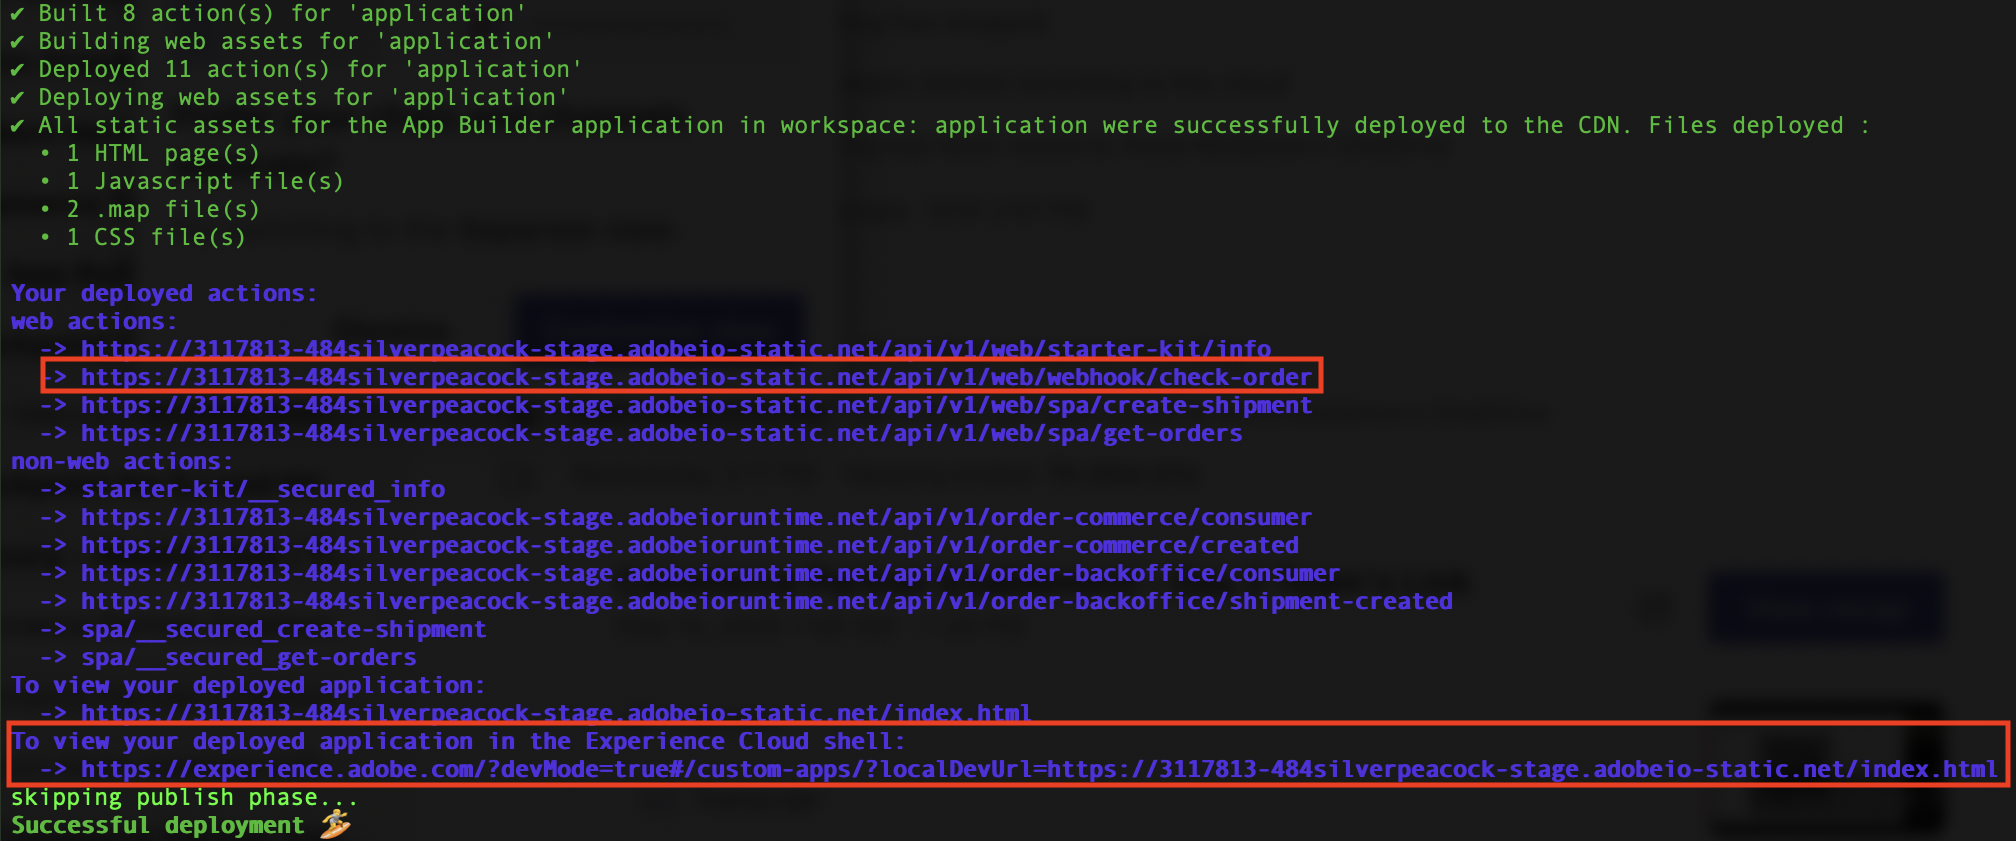
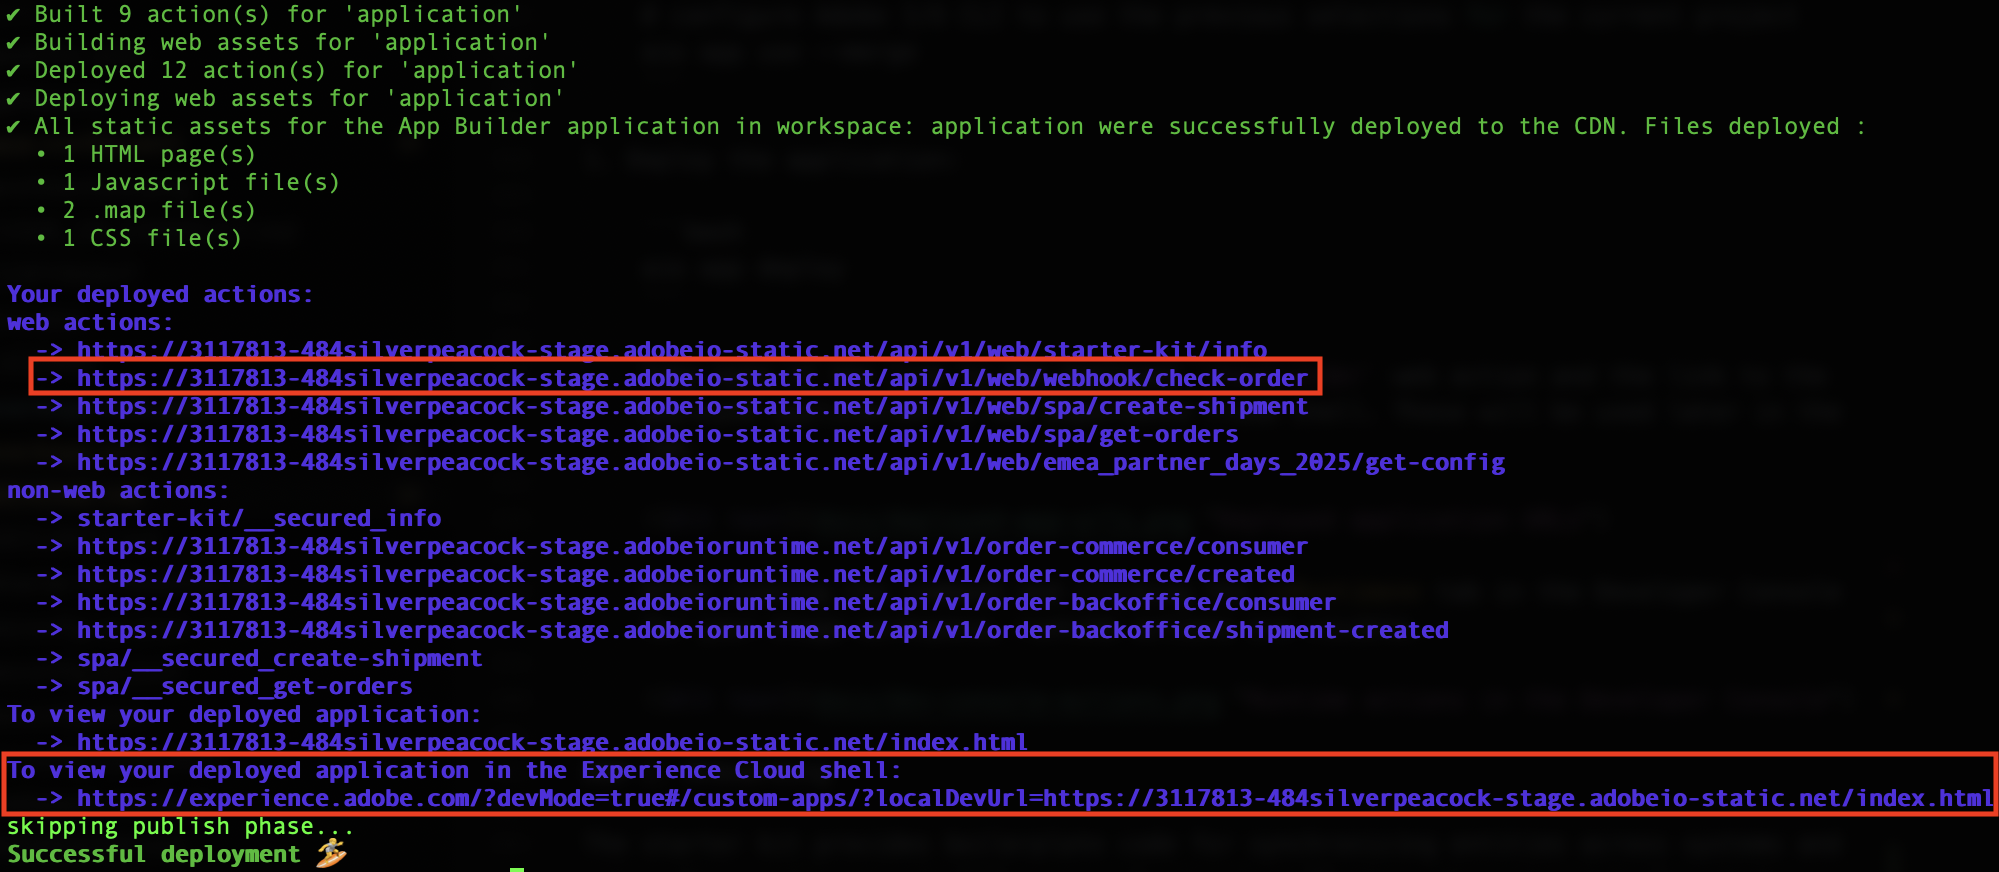
Add action for webhooks part

Changed region(s): [[0.0, 0.0, 1.0, 1.0], [0.2481, 0.9893, 0.2791, 1.0]]

diff --git a/README.md b/README.md
@@ -519,22 +519,18 @@ In this part of the lab, we will demonstrate the sending of information from an 
 
 Adobe Commerce Webhooks allows for synchronous calls to be made from Commerce to external systems when a Commerce event triggers. In this part of the lab, we will setup a webhook that will be used to validate an order when an `observer.sales_order_place_before` event occurs.
 
-In this part of the lab, we will use a script to configure the webhook via a webhook subscription REST API available in ACCS. This script reads from a configuration file that defines the webhook subscriptions to be created. The configuraiton file is:
+1. We will use a script to configure the webhook via a webhook subscription REST API available in ACCS. This script reads from a configuration file that defines the webhook subscriptions to be created. This configuration file is `scripts/commerce-event-subscribe/config/commerce-webhook-subscribe.json`
 
-- `scripts/commerce-event-subscribe/config/commerce-webhook-subscribe.json`
+    The file contains configuration details for a `observer.sales_order_place_before` webhook.
 
-### TODO: EDIT BELOW 
+    On line 9 of this file, the `url` is set to an empty string. Replace the `url` value with the URL for the deployed `check-order` web action that was shown in the output for the `aio app deploy` command. This will ensure that requests are sent to the `check-order` web action when an `observer.sales_order_place_before` event occurs once the webhook is configured.
 
-This configuration file contains configuration details for a `observer.sales_order_place_before` webhook. Before we run the script, we need to configure
+1. Then, to automatically configure the order save webhook, run the following command:
+    ```bash
+    npm run commerce-webhook-subscribe
+    ```
 
-The Commerce webhook configured using the `npm run commerce-webhook-subscribe` command allows for synchronous communication between Commerce and App Builder before an order is placed.
+1. The code for the `check-order` action, located in `actions/webhook/check-order/index.js`, retrieves item stock limit configuration data from a `get-config` action and uses it to perform validation of order item quantities. The `get-config` action is currently hardcoded to indicate that item quantities in an order should not be greater than 1.
 
-Finally, we need to configure an order save webhook. Before doing so, open `scripts/commerce-event-subscribe/config/commerce-webhook-subscribe.json`. 
-
-On line 9 of this file, the `url` is set to an empty string. Replace the `url` value with the URL for the deployed `check-order` web action that was shown in the output for the `aio app deploy`. This will ensure that requests are sent to the `check-order` web action when an `observer.sales_order_place_before` event occurs once the webhook is configured.
-
-The order save webhook can then be automatically configured by running the following command
-```bash
-npm run commerce-webhook-subscribe
-```
+    To see the effect of this, navigate to the product details page of an item in your storefront, set the quanity to a value greater than 1, and then add the item to your cart. Then proceed to place an order.
 
